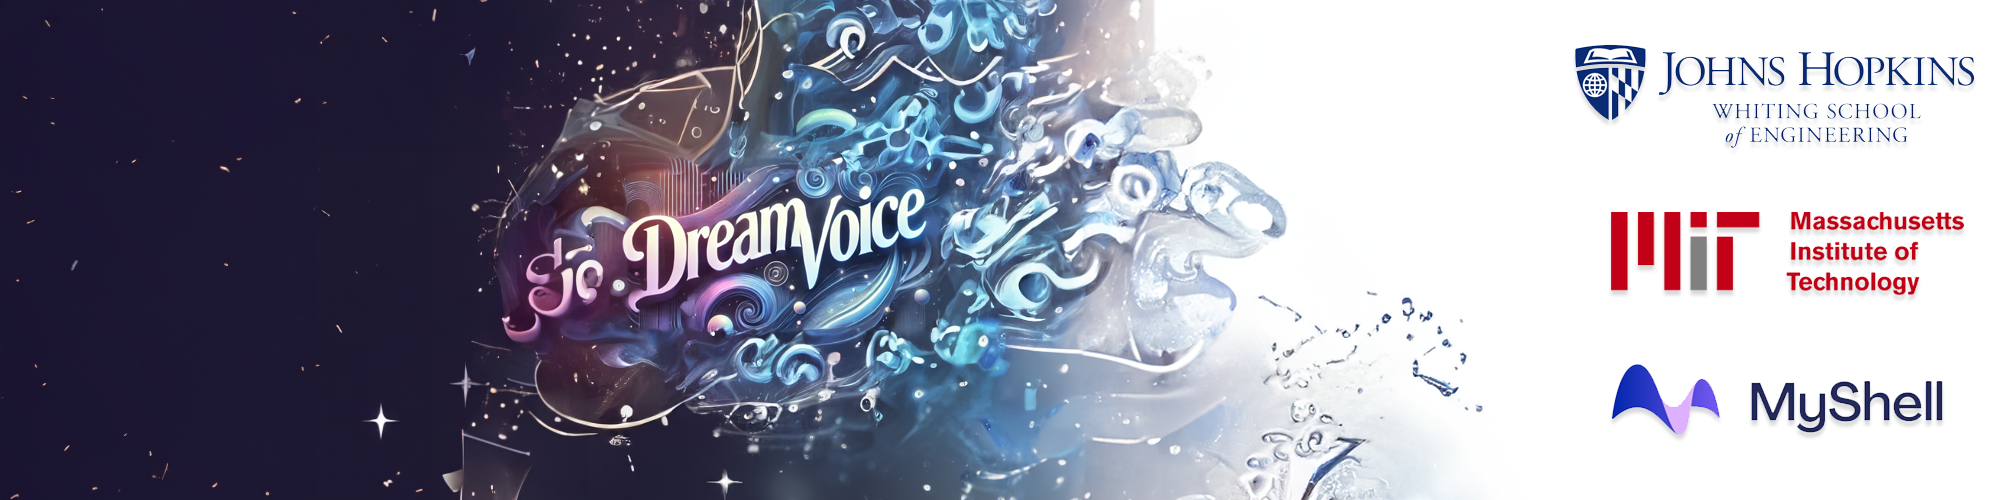
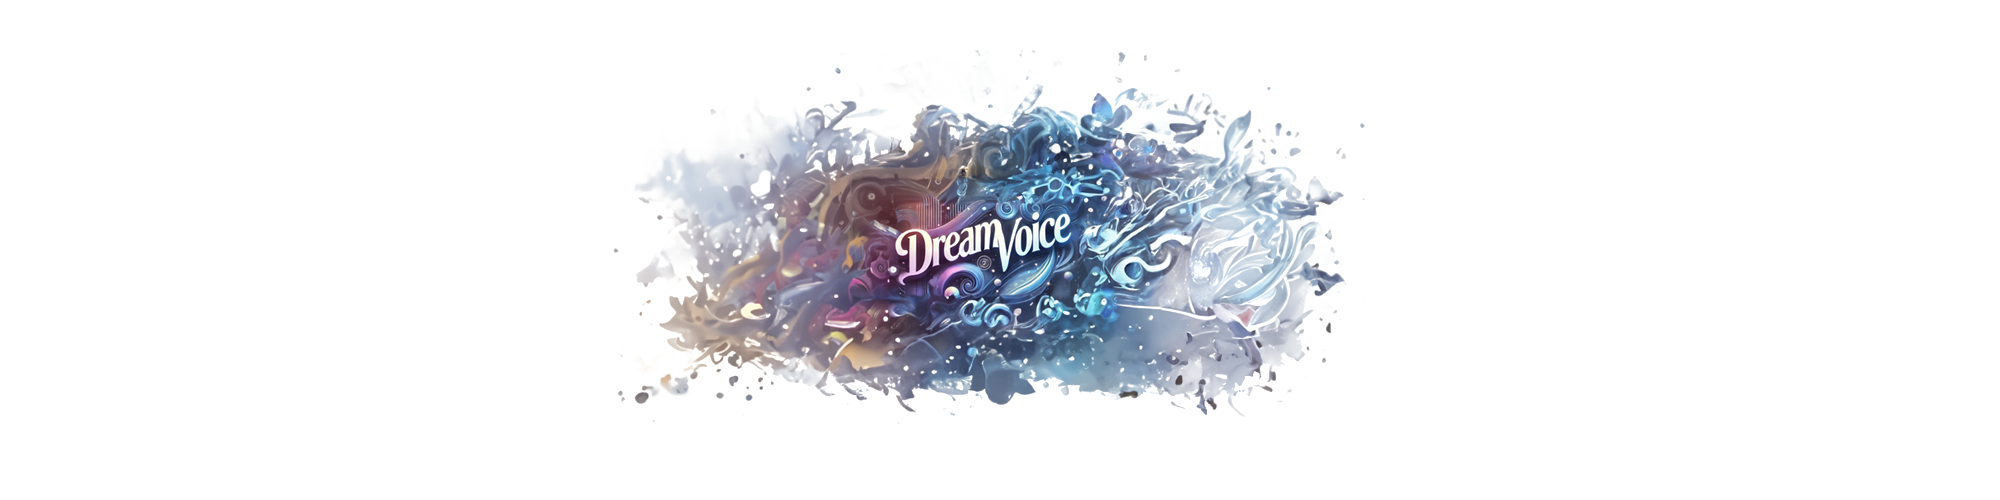
update

diff --git a/index.md b/index.md
@@ -1,3 +1,7 @@
+<p align="center">
+<img src="data/cover.png">
+</p>
+
 <div style="text-align: center"> 
 
 <h1>DreamVoice: Text-guided Voice Conversion</h1> 
